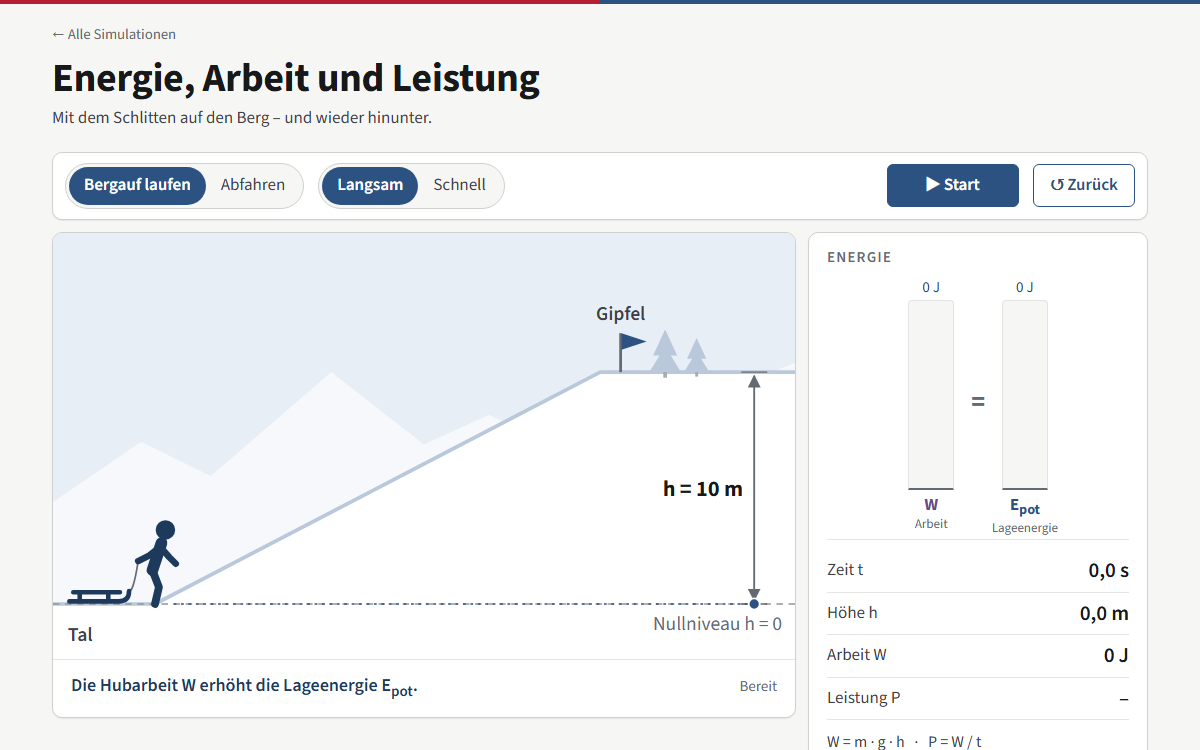
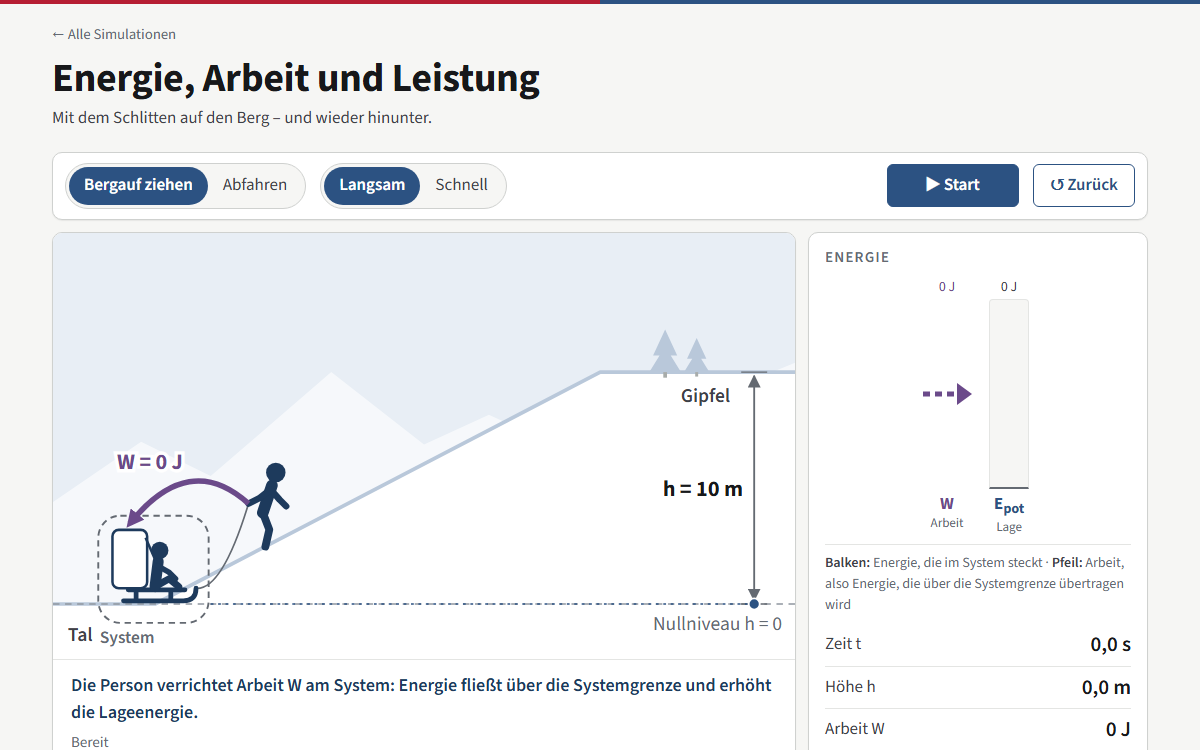
Schlittenberg: Systemgrenze, Energie-Rucksack und Arbeitspfeil
System ist das Kind mit Schlitten (m = 40 kg); die ziehende Person steht
außerhalb. Arbeit W fließt als animierter Pfeil über die Systemgrenze in
den Rucksack (Füllstand = Energie), Reibungsarbeit verlässt das System.
Im Panel ist W ein Pfeil statt eines Balkens.

diff --git a/sims/physik/schlittenberg/index.html b/sims/physik/schlittenberg/index.html
@@ -62,20 +62,29 @@ h1{font-size:clamp(28px,5vw,40px);line-height:1.15;margin:0;letter-spacing:-.01e
 #message{color:var(--physik-ink);font-weight:600;font-size:18px}
 #status{color:var(--fg-3);font-size:15px;white-space:nowrap}
 
-.panel{padding:14px 18px 16px}
+.panel{padding:14px 16px 16px}
 .panel h2{margin:0 0 8px;font-size:15px;font-weight:600;letter-spacing:.08em;text-transform:uppercase;color:var(--fg-3)}
-.bars{display:flex;justify-content:center;align-items:flex-start;gap:12px;padding-bottom:4px;border-bottom:1px solid var(--line-1)}
-.bar{display:flex;flex-direction:column;align-items:center;width:64px}
-.bar .val{font-size:15px;font-variant-numeric:tabular-nums;color:var(--fg-2);white-space:nowrap;min-height:23px}
-.track{width:46px;height:190px;background:var(--surface-soft);border:1px solid var(--line-1);border-bottom:2px solid var(--fg-3);border-radius:var(--radius-sm) var(--radius-sm) 0 0;display:flex;flex-direction:column-reverse;overflow:hidden}
+.bars{display:flex;justify-content:center;align-items:flex-start;gap:8px;padding-bottom:4px}
+.bar{display:flex;flex-direction:column;align-items:center;width:54px}
+.bar .val{font-size:14px;font-variant-numeric:tabular-nums;color:var(--fg-2);white-space:nowrap;min-height:22px}
+.track{width:40px;height:190px;background:var(--surface-soft);border:1px solid var(--line-1);border-bottom:2px solid var(--fg-3);border-radius:var(--radius-sm) var(--radius-sm) 0 0;display:flex;flex-direction:column-reverse;overflow:hidden}
 .fill{display:block;width:100%;height:0;flex:none}
-.f-w{background:var(--hl-ink)}.f-pot{background:var(--physik)}.f-kin{background:var(--ok)}.f-inner{background:var(--warn)}
+.f-pot{background:var(--physik)}.f-kin{background:var(--ok)}.f-inner{background:var(--warn)}
 .bar .name{margin-top:6px;font-weight:700;text-align:center;line-height:1.1}
 .bar .name small{display:block;font-weight:400;color:var(--fg-3);font-size:13px;margin-top:2px}
-.bar.w .name{color:var(--hl-ink)}.bar.pot .name{color:var(--physik)}.bar.kin .name{color:var(--ok)}.bar.inner .name{color:var(--warn)}
-.eq{align-self:flex-start;margin:105px -4px 0;font-size:26px;font-weight:700;color:var(--fg-3)}
+.bar.pot .name{color:var(--physik)}.bar.kin .name{color:var(--ok)}.bar.inner .name{color:var(--warn)}
+/* Arbeit ist kein Vorrat, sondern übertragene Energie: Pfeil statt Balken */
+.flow .ftrack{height:190px;display:flex;align-items:center}
+.flow svg{width:52px;height:28px;overflow:visible}
+.flow .line{fill:none;stroke-width:5;stroke-dasharray:7 5}
+.flow.w .line{stroke:var(--hl-ink)}.flow.w .head{fill:var(--hl-ink)}.flow.w .name,.flow.w .val{color:var(--hl-ink)}
+.flow.r .line{stroke:var(--warn)}.flow.r .head{fill:var(--warn)}.flow.r .name,.flow.r .val{color:var(--warn)}
+.flow.on .line{animation:fliessen .6s linear infinite}
+@keyframes fliessen{to{stroke-dashoffset:-12}}
+.legende{margin:6px 0 0;padding-top:8px;border-top:1px solid var(--line-1);font-size:14px;color:var(--fg-3)}
+.legende b{font-weight:600;color:var(--fg-2)}
 
-table.werte{width:100%;border-collapse:collapse;margin-top:10px;font-variant-numeric:tabular-nums}
+table.werte{width:100%;border-collapse:collapse;margin-top:8px;font-variant-numeric:tabular-nums}
 .werte th,.werte td{padding:5px 0;text-align:right;border-bottom:1px solid var(--line-1)}
 .werte tbody th{text-align:left;font-weight:400;color:var(--fg-2)}
 .werte thead th{font-size:14px;color:var(--fg-3);font-weight:600;padding-top:0}
@@ -98,7 +107,7 @@ details.lehrkraft dd{margin:0;max-width:95ch}
   .spacer{display:none}
   #message{font-size:16px}
 }
-@media (prefers-reduced-motion:reduce){.btn,.seg button{transition:none}}
+@media (prefers-reduced-motion:reduce){.flow.on .line{animation:none}}
 </style>
 </head>
 <body>
@@ -112,7 +121,7 @@ details.lehrkraft dd{margin:0;max-width:95ch}
 
   <div class="simbar">
     <div class="seg" role="group" aria-label="Vorgang">
-      <button id="up" aria-pressed="true">Bergauf laufen</button><button id="down" aria-pressed="false">Abfahren</button>
+      <button id="up" aria-pressed="true">Bergauf ziehen</button><button id="down" aria-pressed="false">Abfahren</button>
     </div>
     <div class="seg" role="group" aria-label="Tempo" id="pace">
       <button id="slow" aria-pressed="true">Langsam</button><button id="fast" aria-pressed="false">Schnell</button>
@@ -131,6 +140,8 @@ details.lehrkraft dd{margin:0;max-width:95ch}
         <title id="desc"></title>
         <defs>
           <marker id="dimTip" viewBox="0 0 10 10" refX="9" refY="5" markerWidth="7" markerHeight="7" orient="auto-start-reverse"><path d="M0 0L10 5L0 10Z" fill="var(--fg-3)"/></marker>
+          <marker id="wTip" viewBox="0 0 10 10" refX="7" refY="5" markerWidth="3.2" markerHeight="3.2" orient="auto"><path d="M0 0L10 5L0 10Z" fill="var(--hl-ink)"/></marker>
+          <marker id="rTip" viewBox="0 0 10 10" refX="7" refY="5" markerWidth="3.2" markerHeight="3.2" orient="auto"><path d="M0 0L10 5L0 10Z" fill="var(--warn)"/></marker>
           <g id="fir"><path d="M0 -46L13 -18H6L17 0H-17L-6 -18H-13Z" fill="var(--physik-line)"/><path d="M0 0V6" stroke="var(--line-3)" stroke-width="4"/></g>
         </defs>
         <rect width="800" height="460" fill="var(--physik-soft)"/>
@@ -138,8 +149,7 @@ details.lehrkraft dd{margin:0;max-width:95ch}
         <path d="M0 400H110L590 150H800V460H0Z" fill="var(--surface-page)"/>
         <path d="M0 400H110L590 150H800" fill="none" stroke="var(--physik-line)" stroke-width="4" stroke-linejoin="round"/>
         <use href="#fir" x="660" y="150"/><use href="#fir" x="694" y="150" transform="translate(694 150) scale(.8) translate(-694 -150)"/>
-        <path d="M612 150V108" stroke="var(--fg-3)" stroke-width="3"/><path d="M613 108L640 117L613 126Z" fill="var(--physik)"/>
-        <text x="612" y="94" text-anchor="middle" style="font-weight:600">Gipfel</text>
+        <text x="730" y="182" text-anchor="end" style="font-weight:600">Gipfel</text>
         <text x="16" y="440" style="font-weight:600">Tal</text>
 
         <!-- Nullniveau und Höhe -->
@@ -154,13 +164,6 @@ details.lehrkraft dd{margin:0;max-width:95ch}
         <g id="heatTrail" aria-hidden="true"></g>
         <g id="ghost" opacity=".35" aria-hidden="true"></g>
         <g id="main"></g>
-        <g id="rider" style="display:none">
-          <path d="M20 -2H-18Q-26 -2 -26 -10M17 -9H-19M12 -9V-2M-10 -9V-2" fill="none" stroke="var(--physik-ink)" stroke-width="3.5" stroke-linecap="round" stroke-linejoin="round"/>
-          <path d="M8 -13L-6 -18L-17 -11" fill="none" stroke="var(--physik-ink)" stroke-width="6" stroke-linecap="round" stroke-linejoin="round"/>
-          <path d="M8 -13L13 -35" stroke="var(--physik-ink)" stroke-width="9" stroke-linecap="round"/>
-          <path d="M12 -31L1 -24L-11 -16" fill="none" stroke="var(--physik-ink)" stroke-width="5" stroke-linecap="round" stroke-linejoin="round"/>
-          <circle cx="15" cy="-45" r="7.5" fill="var(--physik-ink)"/>
-        </g>
       </svg>
       <div class="caption"><span id="message"></span><span id="status" role="status"></span></div>
     </section>
@@ -168,13 +171,14 @@ details.lehrkraft dd{margin:0;max-width:95ch}
     <aside class="panel" aria-label="Energie und Messwerte">
       <h2>Energie</h2>
       <div class="bars">
-        <div class="bar w" id="colW"><span class="val" id="vW"></span><div class="track"><i class="fill f-w" id="fW"></i></div><span class="name">W<small>Arbeit</small></span></div>
-        <span class="eq" id="eqSign" aria-hidden="true">=</span>
-        <div class="bar pot"><span class="val" id="vPot"></span><div class="track"><i class="fill f-pot" id="fPot"></i></div><span class="name">E<sub>pot</sub><small>Lageenergie</small></span></div>
-        <div class="bar kin" id="colKin"><span class="val" id="vKin"></span><div class="track"><i class="fill f-kin" id="fKin"></i></div><span class="name">E<sub>kin</sub><small>Bewegungsenergie</small></span></div>
-        <div class="bar inner" id="colInner"><span class="val" id="vInner"></span><div class="track"><i class="fill f-inner" id="fInner"></i></div><span class="name">ΔE<sub>i</sub><small>innere Energie</small></span></div>
+        <div class="bar flow w" id="colW"><span class="val" id="vW"></span><div class="ftrack"><svg viewBox="0 0 52 28" aria-hidden="true"><path class="line" d="M2 14H38"/><path class="head" d="M36 3L51 14L36 25Z"/></svg></div><span class="name">W<small>Arbeit</small></span></div>
+        <div class="bar pot"><span class="val" id="vPot"></span><div class="track"><i class="fill f-pot" id="fPot"></i></div><span class="name">E<sub>pot</sub><small>Lage</small></span></div>
+        <div class="bar kin" id="colKin"><span class="val" id="vKin"></span><div class="track"><i class="fill f-kin" id="fKin"></i></div><span class="name">E<sub>kin</sub><small>Bewegung</small></span></div>
+        <div class="bar flow r" id="colR"><span class="val" id="vR"></span><div class="ftrack"><svg viewBox="0 0 52 28" aria-hidden="true"><path class="line" d="M2 14H38"/><path class="head" d="M36 3L51 14L36 25Z"/></svg></div><span class="name">W<sub>R</sub><small>Reibung</small></span></div>
+        <div class="bar inner" id="colInner"><span class="val" id="vInner"></span><div class="track"><i class="fill f-inner" id="fInner"></i></div><span class="name">ΔE<sub>i</sub><small>Schnee</small></span></div>
         <div class="bar sum" id="colSum"><span class="val" id="vSum"></span><div class="track"><i class="fill f-pot" id="sPot"></i><i class="fill f-kin" id="sKin"></i><i class="fill f-inner" id="sInner"></i></div><span class="name">Summe<small>&nbsp;</small></span></div>
       </div>
+      <p class="legende"><b>Balken:</b> Energie, die im System steckt · <b>Pfeil:</b> Arbeit, also Energie, die über die Systemgrenze übertragen wird</p>
       <table class="werte">
         <thead id="cmpHead"><tr><th></th><th>schnell</th><th>langsam (blass)</th></tr></thead>
         <tbody>
@@ -187,27 +191,28 @@ details.lehrkraft dd{margin:0;max-width:95ch}
       </table>
       <p class="formel" id="formel"></p>
       <p class="fazit" id="fazit" hidden></p>
-      <p class="modell">Person mit Schlitten: m = 60 kg · g = 9,81 m/s²</p>
+      <p class="modell">System: Kind mit Schlitten (und Erde), m = 40 kg · g = 9,81 m/s²</p>
     </aside>
   </div>
 
   <details class="lehrkraft"><summary>Für Lehrkräfte</summary><div class="in"><dl>
-    <dt>Zweck</dt><dd>Wiederholung von Energie, Arbeit und Leistung im Unterrichtsgespräch am Beamer, ohne Arbeitsaufträge. Aufstieg: Die Hubarbeit W = m · g · h erhöht die Lageenergie; die Balken W und E<sub>pot</sub> wachsen gleich. Tempo „Schnell“: Eine blasse langsame Vergleichsperson startet gleichzeitig – gleiche Arbeit, halbe Zeit, doppelte Leistung P = W / t. Abfahrt: Lageenergie wird zu Bewegungsenergie, mit Reibung zusätzlich zu innerer Energie; der Summenbalken bleibt gleich.</dd>
+    <dt>Zweck</dt><dd>Wiederholung von Energie, Arbeit und Leistung im Unterrichtsgespräch am Beamer, ohne Arbeitsaufträge. Kern ist die Unterscheidung von Energie (Füllstand im System, Zustandsgröße) und Arbeit (Pfeil über die Systemgrenze, Prozessgröße). Aufstieg: Die Person zieht das Kind auf dem Schlitten hinauf; die Arbeit W = m · g · h fließt über die Systemgrenze und füllt den Rucksack mit Lageenergie. Tempo „Schnell“: Eine blasse langsame Vergleichsgruppe startet gleichzeitig – gleiche Arbeit, halbe Zeit, doppelte Leistung P = W / t; die Energiepakete auf dem Pfeil wandern schneller. Abfahrt: Im System wird Lageenergie zu Bewegungsenergie; mit Reibung verlässt Energie als Reibungsarbeit W<sub>R</sub> das System und erhöht die innere Energie des Schnees. Der Summenbalken bleibt gleich.</dd>
     <dt>Vorwissen</dt><dd>Lage- und Bewegungsenergie, Nullniveau, Energieerhaltung und Energiebalken (Skript 1, „Energie der Bewegung“); Arbeit und Leistung aus der Mittelstufe.</dd>
     <dt>Ablauf</dt><dd>Aufstieg langsam (ca. 3 min) · Aufstieg schnell mit Vergleich (ca. 3 min) · Abfahrt ohne und mit Reibung (ca. 4 min).</dd>
-    <dt>Modell</dt><dd>m = 60 kg (Person mit Schlitten), h = 10 m, g = 9,81 m/s², also W = 5 886 J. Aufstieg mit konstantem Tempo in 16 s bzw. 8 s; Bewegungsenergie beim Aufstieg und Reibung beim Ziehen werden vernachlässigt, W ist nur die Hubarbeit. P ist die Leistung während des Aufstiegs; die Wartezeit der schnellen Person am Gipfel zählt nicht. Die chemische Energie der Person liegt außerhalb des Modells.<br>
-      Abfahrt aus der Ruhe, gleichmäßig beschleunigt und in Zeitlupe (deshalb ohne Zeitangabe). Mit Reibung werden auf jedem Wegstück 45 % der frei werdenden Lageenergie zu innerer Energie von Schlitten und Schnee; die Beschleunigung beträgt dann 55 % des reibungsfreien Wertes. v wird aus E<sub>kin</sub> = ½ · m · v² berechnet (ohne Reibung v ≈ 14 m/s, mit Reibung v ≈ 10,4 m/s). Die ockerfarbene Spur ist symbolisch.</dd>
-    <dt>Hinweise</dt><dd>Mögliche Impulse: Woher stammt die Energie für W? (Nahrung; auch die Person erwärmt sich.) Warum ist W bei beiden Tempi gleich? Wie ändern sich W, P und v bei doppelter Masse? Ein Wechsel von Vorgang, Tempo oder Reibung setzt die Animation zurück. Es werden keine Daten gespeichert oder übertragen.</dd>
+    <dt>Modell</dt><dd>System: Kind mit Schlitten, m = 40 kg, zusammen mit der Erde (Lageenergie im System Körper–Erde). Die ziehende Person gehört nicht zum System; ihre chemische Energie liegt außerhalb des Modells. h = 10 m, g = 9,81 m/s², also W = 3 924 J. Aufstieg mit konstantem Tempo in 16 s bzw. 8 s (P = 245,3 W bzw. 490,5 W); Bewegungsenergie beim Aufstieg und Reibung beim Ziehen werden vernachlässigt, W ist nur die Hubarbeit. P ist die Leistung während des Aufstiegs; die Wartezeit der schnellen Gruppe am Gipfel zählt nicht.<br>
+      Abfahrt aus der Ruhe, gleichmäßig beschleunigt und in Zeitlupe (deshalb ohne Zeitangabe). Mit Reibung werden auf jedem Wegstück 45 % der frei werdenden Lageenergie abgegeben; die Beschleunigung beträgt dann 55 % des reibungsfreien Wertes. Die Erwärmung der Kufen wird vereinfachend dem Schnee (Umgebung) zugerechnet. v wird aus E<sub>kin</sub> = ½ · m · v² berechnet (ohne Reibung v ≈ 14 m/s, mit Reibung v ≈ 10,4 m/s, jeweils unabhängig von der Masse). Rucksack und ockerfarbene Spur sind symbolisch.</dd>
+    <dt>Hinweise</dt><dd>Mögliche Impulse: Was gehört zum System, was nicht? Warum ist W bei beiden Tempi gleich? Wie ändern sich W, P und v bei doppelter Masse? Woher stammt die Energie der ziehenden Person? Ein Wechsel von Vorgang, Tempo oder Reibung setzt die Animation zurück. Es werden keine Daten gespeichert oder übertragen.</dd>
   </dl></div></details>
 </main>
 <script>
 'use strict';
 const $=id=>document.getElementById(id);
-const M=60,G=9.81,H=10,E0=M*G*H;        // 5886 J
+const M=40,G=9.81,H=10,E0=M*G*H;        // 3924 J
 const T_SLOW=16,T_FAST=8;               // Aufstiegszeiten in s
-const LOSS=.45;                          // Anteil der frei werdenden Lageenergie, der bei Reibung zu innerer Energie wird
+const LOSS=.45;                          // Anteil der frei werdenden Lageenergie, der bei Reibung das System verlässt
 const X0=110,Y0=400,X1=590,Y1=150;       // Fuß und Gipfel des Hangs in der Szene
-const TAN=(Y0-Y1)/(X1-X0),ANG=Math.atan(TAN)*180/Math.PI,AXIS=756,S=1.4;  // S: Größe der Figuren
+const TAN=(Y0-Y1)/(X1-X0),ANG=Math.atan(TAN)*180/Math.PI,AXIS=756;
+const S=1.4,SYS=1.7,D=70;                // Größe von Person und System, Abstand Person–Schlitten
 let mode='up',fast=false,friction=false,running=false,last=null,t=0;
 
 // Zahlen deutsch, Tausender mit schmalem Leerzeichen
@@ -215,13 +220,36 @@ const fmt=(x,d=0)=>x.toLocaleString('de-DE',{minimumFractionDigits:d,maximumFrac
 const point=h=>[X0+(X1-X0)*h,Y0-(Y0-Y1)*h];
 const groundY=x=>x<=X0?Y0:x>=X1?Y1:Y0-(x-X0)*TAN;
 const tDown=()=>5/Math.sqrt(friction?1-LOSS:1);
+const ink='var(--physik-ink)';
 
-// Person mit Schlitten an der Leine (für Hauptfigur und blassen Vergleich)
-function walkerSVG(p,label){
-  const ink='var(--physik-ink)';
+// System Kind + Schlitten mit Energie-Rucksack; Systemgrenze und Pfeile nur bei der Hauptfigur
+function systemSVG(p,main){
+  return `<g id="${p}sys">
+  ${main?`<rect x="-36" y="-56" width="70" height="68" rx="14" fill="none" stroke="var(--fg-3)" stroke-width="1.2" stroke-dasharray="4 3"/>
+  <text x="-35" y="25" stroke="var(--surface-page)" stroke-width="3" paint-order="stroke" style="font-size:11px;font-weight:600;fill:var(--fg-3)">System</text>`:''}
+  ${main?'':`<text x="0" y="27" text-anchor="middle" style="font-size:11px;font-weight:700;fill:${ink}">langsam</text>`}
+  <g id="${p}flip">
+    <g id="${p}sled"><path d="M-20 -2H18Q26 -2 26 -10M-17 -9H19M-12 -9V-2M10 -9V-2" fill="none" stroke="${ink}" stroke-width="3" stroke-linecap="round" stroke-linejoin="round"/></g>
+    <path d="M0 -11L9 -16L15 -11" fill="none" stroke="${ink}" stroke-width="4.5" stroke-linecap="round" stroke-linejoin="round"/>
+    <path d="M0 -11L2 -27" stroke="${ink}" stroke-width="7" stroke-linecap="round"/>
+    <path d="M2 -24L9 -20L13 -16" fill="none" stroke="${ink}" stroke-width="3.5" stroke-linecap="round" stroke-linejoin="round"/>
+    <circle cx="3" cy="-34" r="5.5" fill="${ink}"/>
+    <rect x="-27" y="-47" width="22" height="37" rx="4" fill="var(--surface-page)" stroke="${ink}" stroke-width="1.6"/>
+    <rect id="${p}rPot" x="-25" width="18" height="0" fill="var(--physik)"/>
+    <rect id="${p}rKin" x="-25" width="18" height="0" fill="var(--ok)"/>
+    <path d="M-6 -42L1 -26" stroke="${ink}" stroke-width="1.6"/>
+  </g>
+  ${main?`<g id="mWork"><path id="mWArrow" fill="none" stroke="var(--hl-ink)" stroke-width="3.5" marker-end="url(#wTip)"/>
+    <circle id="mPk0" r="2.8" fill="var(--hl-ink)"/><circle id="mPk1" r="2.8" fill="var(--hl-ink)"/><circle id="mPk2" r="2.8" fill="var(--hl-ink)"/>
+    <text id="mWLabel" text-anchor="end" stroke="var(--surface-page)" stroke-width="4" paint-order="stroke" style="font-size:14px;font-weight:700;fill:var(--hl-ink)"></text></g>
+  <g id="mFric"><path d="M16 -16Q46 -12 58 12" fill="none" stroke="var(--warn)" stroke-width="3.5" marker-end="url(#rTip)"/>
+    <text x="48" y="-14" stroke="var(--surface-page)" stroke-width="4" paint-order="stroke" style="font-size:14px;font-weight:700;fill:var(--warn)">W<tspan dy="4" style="font-size:10px">R</tspan></text></g>`:''}
+</g>`;
+}
+// Ziehende Person (außerhalb des Systems) mit Leine
+function personSVG(p,label){
   return `<path id="${p}rope" fill="none" stroke="var(--fg-3)" stroke-width="1.8"/>
-  <g id="${p}sled"><path d="M-20 -2H18Q26 -2 26 -10M-17 -9H19M-12 -9V-2M10 -9V-2" fill="none" stroke="${ink}" stroke-width="3.5" stroke-linecap="round" stroke-linejoin="round"/></g>
-  <g id="${p}body">
+  <g id="${p}person">
     <path id="${p}legs" fill="none" stroke="${ink}" stroke-width="6" stroke-linecap="round" stroke-linejoin="round"/>
     <path d="M-2 -26L5 -47" stroke="${ink}" stroke-width="9" stroke-linecap="round"/>
     <path d="M4 -44L-5 -37L-13 -33M4 -44L11 -36L16 -31" fill="none" stroke="${ink}" stroke-width="5" stroke-linecap="round" stroke-linejoin="round"/>
@@ -229,18 +257,28 @@ function walkerSVG(p,label){
     <text id="${p}label" text-anchor="middle" style="font-weight:700;font-size:15px;fill:${ink}" ${label.pos}>${label.text}</text>
   </g>`;
 }
-$('main').innerHTML=walkerSVG('m',{text:'schnell',pos:'x="4" y="-74"'});
-$('ghost').innerHTML=walkerSVG('g',{text:'langsam',pos:'x="0" y="32"'});
+$('main').innerHTML=personSVG('m',{text:'schnell',pos:'x="4" y="-74"'})+systemSVG('m',true);
+$('ghost').innerHTML=personSVG('g',{text:'',pos:''})+systemSVG('g',false);
 
-function placeWalker(p,h,stride){
-  const [x,y]=point(h);
-  $(p+'body').setAttribute('transform',`translate(${x} ${y}) scale(${S})`);
-  const sx=x-46*S,sy=groundY(sx),rot=sx<=X0?0:-ANG,r=rot*Math.PI/180;
-  $(p+'sled').setAttribute('transform',`translate(${sx} ${sy}) rotate(${rot}) scale(${S})`);
-  const fx=sx+S*(25*Math.cos(r)+10*Math.sin(r)),fy=sy+S*(25*Math.sin(r)-10*Math.cos(r)),hx=x-13*S,hy=y-33*S;
+// Setzt System (Kind + Schlitten) auf Höhe h; bergauf mit Person davor. Gibt die Hand der Person zurück.
+function place(p,h,up,stride,pot,kin){
+  const [x,y]=point(h),tilt=ANG*Math.max(0,Math.min(1,h/.04,(1-h)/.04));
+  $(p+'sys').setAttribute('transform',`translate(${x} ${y}) scale(${SYS})`);
+  $(p+'flip').setAttribute('transform',up?'':'scale(-1 1)');
+  $(p+'sled').setAttribute('transform',`rotate(${up?-tilt:tilt})`);
+  const hp=33*pot/E0,hk=33*kin/E0;
+  $(p+'rPot').setAttribute('y',-12-hp);$(p+'rPot').setAttribute('height',hp);
+  $(p+'rKin').setAttribute('y',-12-hp-hk);$(p+'rKin').setAttribute('height',hk);
+  $(p+'person').style.display=$(p+'rope').style.display=up?'':'none';
+  if(!up)return null;
+  const px=x+D*SYS,py=groundY(px),k=px>X0&&px<X1?TAN:0;
+  $(p+'person').setAttribute('transform',`translate(${px} ${py}) scale(${S})`);
+  const leg=f=>{const fx=f*stride,fy=-f*stride*k;return `M-2 -26L${(fx-2)/2+4} ${(fy-26)/2}L${fx} ${fy}`;};
+  $(p+'legs').setAttribute('d',leg(1)+leg(-1));
+  const r=-tilt*Math.PI/180,fx=x+SYS*(25*Math.cos(r)+10*Math.sin(r)),fy=y+SYS*(25*Math.sin(r)-10*Math.cos(r));
+  const hx=px-13*S,hy=py-33*S;
   $(p+'rope').setAttribute('d',`M${hx} ${hy}Q${(hx+fx)/2} ${Math.max(hy,fy)+5} ${fx} ${fy}`);
-  const k=h>0?TAN:0,leg=(f,s)=>{const fx=f*s,fy=-f*s*k;return `M-2 -26L${(fx-2)/2+4} ${(fy-26)/2}L${fx} ${fy}`;};
-  $(p+'legs').setAttribute('d',leg(1,stride)+leg(-1,stride));
+  return [(hx-x)/SYS,(hy-y)/SYS];
 }
 
 // Wärmespur hinter dem Schlitten (symbolisch)
@@ -254,26 +292,37 @@ function render(){
   const T=up?(fast?T_FAST:T_SLOW):tDown();
   const q=up?Math.min(1,t/T):Math.min(1,(t/T)**2);
   const h=up?q:1-q,[x,y]=point(h);
+  const pot=E0*h,kin=up?0:E0*q*(friction?1-LOSS:1),inner=up?0:E0*q*(friction?LOSS:0),w=up?E0*q:0;
+  const moving=running&&q<1;
 
-  // Figuren
-  $('main').style.display=up?'':'none';$('rider').style.display=up?'none':'';
-  if(up){placeWalker('m',q,running&&q<1?Math.sin(t*(fast?15:9))*9:0);}
-  else $('rider').setAttribute('transform',`translate(${x} ${y}) rotate(${x<=X0?0:-ANG}) scale(${S})`);
+  // Szene
+  const hand=place('m',h,up,moving&&up?Math.sin(t*(fast?15:9))*9:0,pot,kin);
   $('mlabel').style.display=compare?'':'none';
   const gq=Math.min(1,t/T_SLOW);
-  $('ghost').style.display=compare?'':'none';
-  if(compare)placeWalker('g',gq,running&&gq<1?Math.sin(t*9)*9:0);
+  $('ghost').style.display=compare&&gq<1?'':'none';  // oben stehen beide am selben Ort
+  if(compare)place('g',gq,true,running&&gq<1?Math.sin(t*9)*9:0,E0*gq,0);
+  $('mWork').style.display=up?'':'none';
+  if(up){
+    const [sx,sy]=hand,ex=-16,ey=-51,cx=(sx+ex)/2,cy=Math.min(sy,ey)-34;
+    $('mWArrow').setAttribute('d',`M${sx} ${sy}Q${cx} ${cy} ${ex} ${ey}`);
+    for(let i=0;i<3;i++){const u=(t*(fast?1.2:.6)+i/3)%1,v=1-u,c=$('mPk'+i);
+      c.setAttribute('cx',v*v*sx+2*v*u*cx+u*u*ex);c.setAttribute('cy',v*v*sy+2*v*u*cy+u*u*ey);c.style.display=moving?'':'none';}
+    const lbl=$('mWLabel');lbl.setAttribute('x',cx-4);lbl.setAttribute('y',(sy+2*cy+ey)/4-8);lbl.textContent='W = '+fmt(w)+' J';
+  }
+  $('mFric').style.display=!up&&friction&&q>0?'':'none';
   for(const m of $('heatTrail').children)m.style.display=!up&&friction&&+m.dataset.h>=h?'':'none';
-  $('hLine').setAttribute('d',`M${x+20} ${y}H${AXIS}`);$('hDot').setAttribute('cy',y);
+  $('hLine').setAttribute('d',`M${x+60} ${y}H${AXIS}`);$('hDot').setAttribute('cy',y);
 
-  // Energien
-  const pot=E0*h,kin=up?0:E0*q*(friction?1-LOSS:1),inner=up?0:E0*q*(friction?LOSS:0),w=up?E0*q:0;
-  setBar('fW',w);setBar('fPot',pot);setBar('fKin',kin);setBar('fInner',inner);
+  // Panel: Balken für Energie, Pfeile für Arbeit
+  setBar('fPot',pot);setBar('fKin',kin);setBar('fInner',inner);
   setBar('sPot',pot);setBar('sKin',kin);setBar('sInner',inner);
-  $('vW').textContent=fmt(w)+' J';$('vPot').textContent=fmt(pot)+' J';$('vKin').textContent=fmt(kin)+' J';
+  $('vW').textContent=fmt(w)+' J';$('vR').textContent=fmt(inner)+' J';
+  $('vPot').textContent=fmt(pot)+' J';$('vKin').textContent=fmt(kin)+' J';
   $('vInner').textContent=fmt(inner)+' J';$('vSum').textContent=fmt(pot+kin+inner)+' J';
-  $('colW').hidden=$('eqSign').hidden=!up;
-  $('colKin').hidden=$('colInner').hidden=$('colSum').hidden=up;
+  $('colW').hidden=!up;$('colKin').hidden=$('colSum').hidden=up;
+  $('colR').hidden=$('colInner').hidden=up||!friction;
+  $('colW').classList.toggle('on',moving&&up);$('colR').classList.toggle('on',moving&&!up&&friction);
+  $('colW').querySelector('.line').style.animationDuration=fast?'.3s':'.6s';
 
   // Messwerte
   const tA=Math.min(t,T),P=tA>0?w/tA:null;
@@ -282,11 +331,11 @@ function render(){
   for(const c of document.querySelectorAll('.cmp'))c.hidden=!compare;
   $('cmpHead').hidden=!compare;
   $('tA').textContent=fmt(tA,1)+' s';$('hA').textContent=fmt(H*h,1)+' m';
-  $('wA').textContent=fmt(w)+' J';$('pA').textContent=P===null?'–':fmt(P)+' W';
+  $('wA').textContent=fmt(w)+' J';$('pA').textContent=P===null?'–':fmt(P,1)+' W';
   $('vA').textContent=fmt(Math.sqrt(2*kin/M),1)+' m/s';
   if(compare){const tB=Math.min(t,T_SLOW),wB=E0*gq;
     $('tB').textContent=fmt(tB,1)+' s';$('hB').textContent=fmt(H*gq,1)+' m';
-    $('wB').textContent=fmt(wB)+' J';$('pB').textContent=tB>0?fmt(wB/tB)+' W':'–';}
+    $('wB').textContent=fmt(wB)+' J';$('pB').textContent=tB>0?fmt(wB/tB,1)+' W':'–';}
   $('formel').innerHTML=up?'W = m · g · h &nbsp;&nbsp;·&nbsp;&nbsp; P = W / t':'E<sub>pot</sub> = m · g · h &nbsp;&nbsp;·&nbsp;&nbsp; E<sub>kin</sub> = ½ · m · v²';
   const done=t>=(up?T_SLOW:T);
   $('fazit').hidden=!(compare&&done);
@@ -294,16 +343,16 @@ function render(){
 
   // Texte
   $('message').innerHTML=up
-    ?(compare&&q>=1&&!done?'Die schnelle Person ist oben. Die langsame verrichtet dieselbe Arbeit – sie braucht nur länger.'
-      :q>=1?'Gleiche Höhe → gleiche Arbeit → gleiche Lageenergie.'
-      :'Die Hubarbeit W erhöht die Lageenergie E<sub>pot</sub>.')
-    :friction?'Reibung: Ein Teil der Lageenergie wird zu innerer Energie von Schlitten und Schnee. Die Summe bleibt gleich.'
-      :'Ohne Reibung wird die Lageenergie vollständig zu Bewegungsenergie. Die Summe bleibt gleich.';
+    ?(compare&&q>=1&&!done?'Die schnelle Gruppe ist oben. Die langsame überträgt dieselbe Energie – sie braucht nur länger.'
+      :q>=1?'Gleiche Höhe → gleiche Arbeit → gleiche Lageenergie im System.'
+      :'Die Person verrichtet Arbeit W am System: Energie fließt über die Systemgrenze und erhöht die Lageenergie.')
+    :friction?'Reibung: Energie verlässt das System und erhöht die innere Energie des Schnees. Die Summe bleibt gleich.'
+      :'Im System wird Lageenergie zu Bewegungsenergie. Ohne Reibung verlässt keine Energie das System.';
   $('status').textContent=compare&&q>=1&&!done?'Schnell: oben · Langsam: unterwegs'
     :done?(up?(compare?'Beide oben':'Gipfel erreicht'):'Im Tal angekommen')
     :running?(up?'Läuft bergauf':'Fährt bergab'):t===0?'Bereit':'Pausiert';
-  $('desc').textContent=up?'Eine Person zieht ihren Schlitten den Berg hinauf. Balken zeigen die verrichtete Arbeit und die Lageenergie.'
-    :'Eine Person fährt mit dem Schlitten bergab. Balken zeigen Lageenergie, Bewegungsenergie'+(friction?', innere Energie':'')+' und ihre Summe.';
+  $('desc').textContent=up?'Eine Person zieht ein Kind auf dem Schlitten den Berg hinauf. Ein Pfeil zeigt die Arbeit, die über die Systemgrenze fließt; der Rucksack des Kindes füllt sich mit Lageenergie.'
+    :'Das Kind fährt mit dem Schlitten bergab. Lageenergie wird zu Bewegungsenergie'+(friction?'; ein Pfeil zeigt Energie, die durch Reibung das System verlässt':'')+'.';
 
   // Schalter
   $('up').setAttribute('aria-pressed',up);$('down').setAttribute('aria-pressed',!up);

diff --git a/simulationen.js b/simulationen.js
@@ -50,7 +50,7 @@ window.SIMULATIONEN = [
     fach: "physik",
     stufen: ["E"],
     thema: "Mechanik · Energie",
-    beschreibung: "Eine Person zieht ihren Schlitten auf den Berg: Energiebalken zeigen, wie die Hubarbeit W die Lageenergie erhöht. Ein langsamer und ein schneller Aufstieg im Vergleich veranschaulichen die Leistung P = W / t; bei der Abfahrt wird Lageenergie zu Bewegungsenergie, mit Reibung auch zu innerer Energie. Ohne Arbeitsaufträge.",
+    beschreibung: "Eine Person zieht ein Kind auf dem Schlitten auf den Berg: Die Arbeit W fließt als Pfeil über die Systemgrenze, der Energie-Rucksack des Kindes füllt sich mit Lageenergie. Ein langsamer und ein schneller Aufstieg im Vergleich veranschaulichen die Leistung P = W / t; bei der Abfahrt wird Lageenergie zu Bewegungsenergie, mit Reibung verlässt Energie das System. Ohne Arbeitsaufträge.",
     pfad: "sims/physik/schlittenberg/",
     vorschau: "sims/physik/schlittenberg/vorschau.png",
     sozialform: "Unterrichtsgespräch am Beamer",
